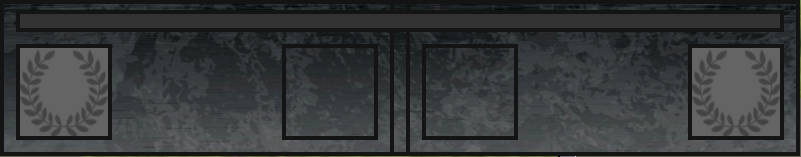
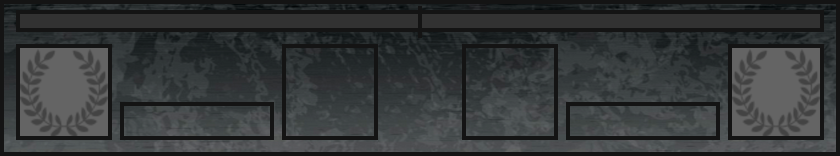
battle menu progress bare done

diff --git a/gui.py b/gui.py
@@ -404,7 +404,8 @@ class GUI():
 		distance = self.calculateDistance(attackFromSquare.position, attackToSquare.position, weapon.rangeMax) - 1
 		_enemyWeapons = [x for x in attackToSquare.unit.weapons if x]
 		_enemyWeaponsInRange = [x for x in _enemyWeapons if x.rangeMax >= distance]
-		enemyWeaponStrength = max([x.power for x in _enemyWeaponsInRange if x.ammo != 0]) if _enemyWeaponsInRange else 0
+		_enemyWeaponWithAmmo = [x for x in _enemyWeaponsInRange if x.ammo != 0] if _enemyWeaponsInRange else []
+		enemyWeapon = sorted(_enemyWeaponWithAmmo, key=lambda x: x.power, reverse=True)[0] if _enemyWeaponWithAmmo else None
 		# Calculate battle
 		fBaseAttack = (weapon.power - attackToSquare.unit.armour)
 		fDistanceModified = fBaseAttack - (distance * 3)																	# (0 - 6 (theoretically infinitely))
@@ -413,7 +414,7 @@ class GUI():
 		fSizeModified = fExperienceModified + ((attackFromSquare.unit.currentSize - attackToSquare.unit.currentSize) * 3)	# 
 		fRndModified = fSizeModified + random.randint(-5, 5)
 		fFinal = int(fRndModified / 10) if fRndModified > 0 else 0
-		eBaseAttack = (enemyWeaponStrength - attackFromSquare.unit.armour)
+		eBaseAttack = (enemyWeapon.power - attackFromSquare.unit.armour) if enemyWeapon else 0
 		eDistanceModified = eBaseAttack - (distance * 3)																	# (0 - 6 (theoretically infinitely))
 		eTerrainModified = eDistanceModified + ((attackToSquare.battleModifier - attackFromSquare.battleModifier) / 3)		# (0 - 100)
 		eExperienceModified = eTerrainModified + ((attackToSquare.unit.experience - attackFromSquare.unit.experience) * 3)	# 
@@ -437,64 +438,61 @@ class GUI():
 		# print("   Terrain:      ", str(attackFromSquare.battleModifier))
 		# print("   Size:         ", str(attackFromSquare.unit.currentSize))
 		# print("Enemy:")
-		# print("   Weapon power: ", str(enemyWeaponStrength))
+		# print("   Weapon power: ", str(enemyWeapon.power))
 		# print("   Armor power:  ", str(attackToSquare.unit.armour))
 		# print("   Experience:   ", str(attackToSquare.unit.experience))
 		# print("   Terrain:      ", str(attackToSquare.battleModifier))
 		# print("   Size:         ", str(attackToSquare.unit.currentSize))
 		# print()
-		print("Calculation (Friend): ")
-		print("   Base:         ", fBaseAttack)
-		print("   Distance:     ", fDistanceModified)
-		print("   Terrain:      ", fTerrainModified)
-		print("   Experience:   ", fExperienceModified)
-		print("   Size:         ", fSizeModified)
-		print("   Random:       ", fRndModified)
-		print("   Kills:        ", fFinal)
-		print("Calculation (Enemy): ")
-		print("   Base:         ", eBaseAttack)
-		print("   Distance:     ", eDistanceModified)
-		print("   Terrain:      ", eTerrainModified)
-		print("   Experience:   ", eExperienceModified)
-		print("   Size:         ", eSizeModified)
-		print("   Random:       ", eRndModified)
-		print("   Kills:        ", eFinal)
-		# show battle
-
-# 600 x 181
-
-
-
-		sparkMig = 1000
-		while _showBattleLoop:	# stay in loop while battle shown
+		# print("Calculation (Friend): ")
+		# print("   Base:         ", fBaseAttack)
+		# print("   Distance:     ", fDistanceModified)
+		# print("   Terrain:      ", fTerrainModified)
+		# print("   Experience:   ", fExperienceModified)
+		# print("   Size:         ", fSizeModified)
+		# print("   Random:       ", fRndModified)
+		# print("   Kills:        ", fFinal)
+		# print("Calculation (Enemy): ")
+		# print("   Base:         ", eBaseAttack)
+		# print("   Distance:     ", eDistanceModified)
+		# print("   Terrain:      ", eTerrainModified)
+		# print("   Experience:   ", eExperienceModified)
+		# print("   Size:         ", eSizeModified)
+		# print("   Random:       ", eRndModified)
+		# print("   Kills:        ", eFinal)
+		# show battle : make calculations needed inside loop
+		fromSize = font40.render(str(attackFromSquare.unit.currentSize), True, (208, 185, 140));
+		toSize = font40.render(str(attackToSquare.unit.currentSize), True, (208, 185, 140));
+		subFromWeapon = weapon.picture.subsurface((42, 0, 248, 49))
+		subToWeapon = enemyWeapon.picture.subsurface((42, 0, 248, 49)) if enemyWeapon else pygame.Surface((290, 49), pygame.SRCALPHA, 32)
+		fromWeapon = pygame.transform.scale(subFromWeapon, (146, 30))
+		toWeapon = pygame.transform.scale(subToWeapon, (146, 30))
+		_leftBarWidth = (40 + (fFinal - eFinal)) * 10
+		_rightBarWidth = 810 - _leftBarWidth
+		# create loop to show battle
+		for battleMenuFrame in range(100):
 			battleMenu = self.battleMenu.copy()
-			battleMenu.blit(self.flags, [286, 48], (0, 0, 88, 88))
-			battleMenu.blit(self.flags, [426, 48], (88, 0, 88, 88))
-			battleMenu.blit(attackFromSquare.unit.mapIcon, [282, 44])
-			battleMenu.blit(attackToSquare.unit.mapIcon, [422, 44])
-			battleMenu.blit(self.ranksGfx, [20, 48], (attackFromSquare.unit.experience * 88, 0, 88, 88))
-			battleMenu.blit(self.ranksGfx, [692, 48], (attackToSquare.unit.experience * 88, 0, 88, 88))
-
-
-
-
-
-
-
-			self.parent.display.blit(battleMenu, [164, 200])			# menu background
+			battleMenu.blit(self.flags, [286, 48], (0, 0, 88, 88))	# flags
+			battleMenu.blit(self.flags, [466, 48], (88, 0, 88, 88))
+			battleMenu.blit(attackFromSquare.unit.mapIcon, [282, 44])	# units
+			battleMenu.blit(attackToSquare.unit.mapIcon, [462, 44])
+			battleMenu.blit(self.ranksGfx, [20, 48], (attackFromSquare.unit.experience * 88, 0, 88, 88))	# exp
+			battleMenu.blit(self.ranksGfx, [732, 48], (attackToSquare.unit.experience * 88, 0, 88, 88))
+			battleMenu.blit(fromSize, [197 - (fromSize.get_width() / 2), 53])	# size
+			battleMenu.blit(toSize, [643 - (toSize.get_width() / 2), 53])
+			battleMenu.blit(fromWeapon, [124, 106])	# weapons
+			battleMenu.blit(toWeapon, [570, 106])
+			# Progress bars. Base length of each bar is 380, (+/- battle outcome * 10)
+			_progressbarLeft = pygame.Surface(((_leftBarWidth / 100) * battleMenuFrame, 14))
+			_progressbarRight = pygame.Surface(((_rightBarWidth / 100) * battleMenuFrame, 14))
+			_progressbarLeft.fill(colors.green)
+			_progressbarRight.fill(colors.red)
+			battleMenu.blit(_progressbarLeft, [20, 14])
+			battleMenu.blit(_progressbarRight, [820 - (_rightBarWidth / 100) * battleMenuFrame, 14])
+			self.parent.display.blit(battleMenu, [144, 200])			# menu background
 			pygame.display.update()
-
-			sparkMig -= 1
-			if sparkMig == 0:
-				_showBattleLoop = False
-
-
-
-
-
-
-
-
+			time.sleep(0.005)
+		time.sleep(2.5)
 		# update game data
 		attackToSquare.unit.currentSize -= fFinal
 		if fFinal > 0 and attackFromSquare.unit.experience < 10:	# if attacked was hit
@@ -504,7 +502,13 @@ class GUI():
 			if attackFromSquare.unit.experience < 10:
 				attackFromSquare.unit.experience += 1
 			attackToSquare.unit = None
-			# show death, if unite dies
+			# show death, if unit dies
+
+
+
+
+
+			
 			print("Unit died")																													# SHOW DEATH!!!!!
 		attackFromSquare.unit.currentSize -= eFinal
 		if eFinal > 0 and attackToSquare.unit.experience < 10:		# if attacker was hit
@@ -515,14 +519,9 @@ class GUI():
 				attackToSquare.unit.experience += 1
 			attackFromSquare.unit = None
 			print("Unit died")																													# SHOW DEATH!!!!!
-			# show death, if unite dies
+			# show death, if unit dies
+		self.generateMap()
 		return True
-
-
-
-
-
-
 
 
 
